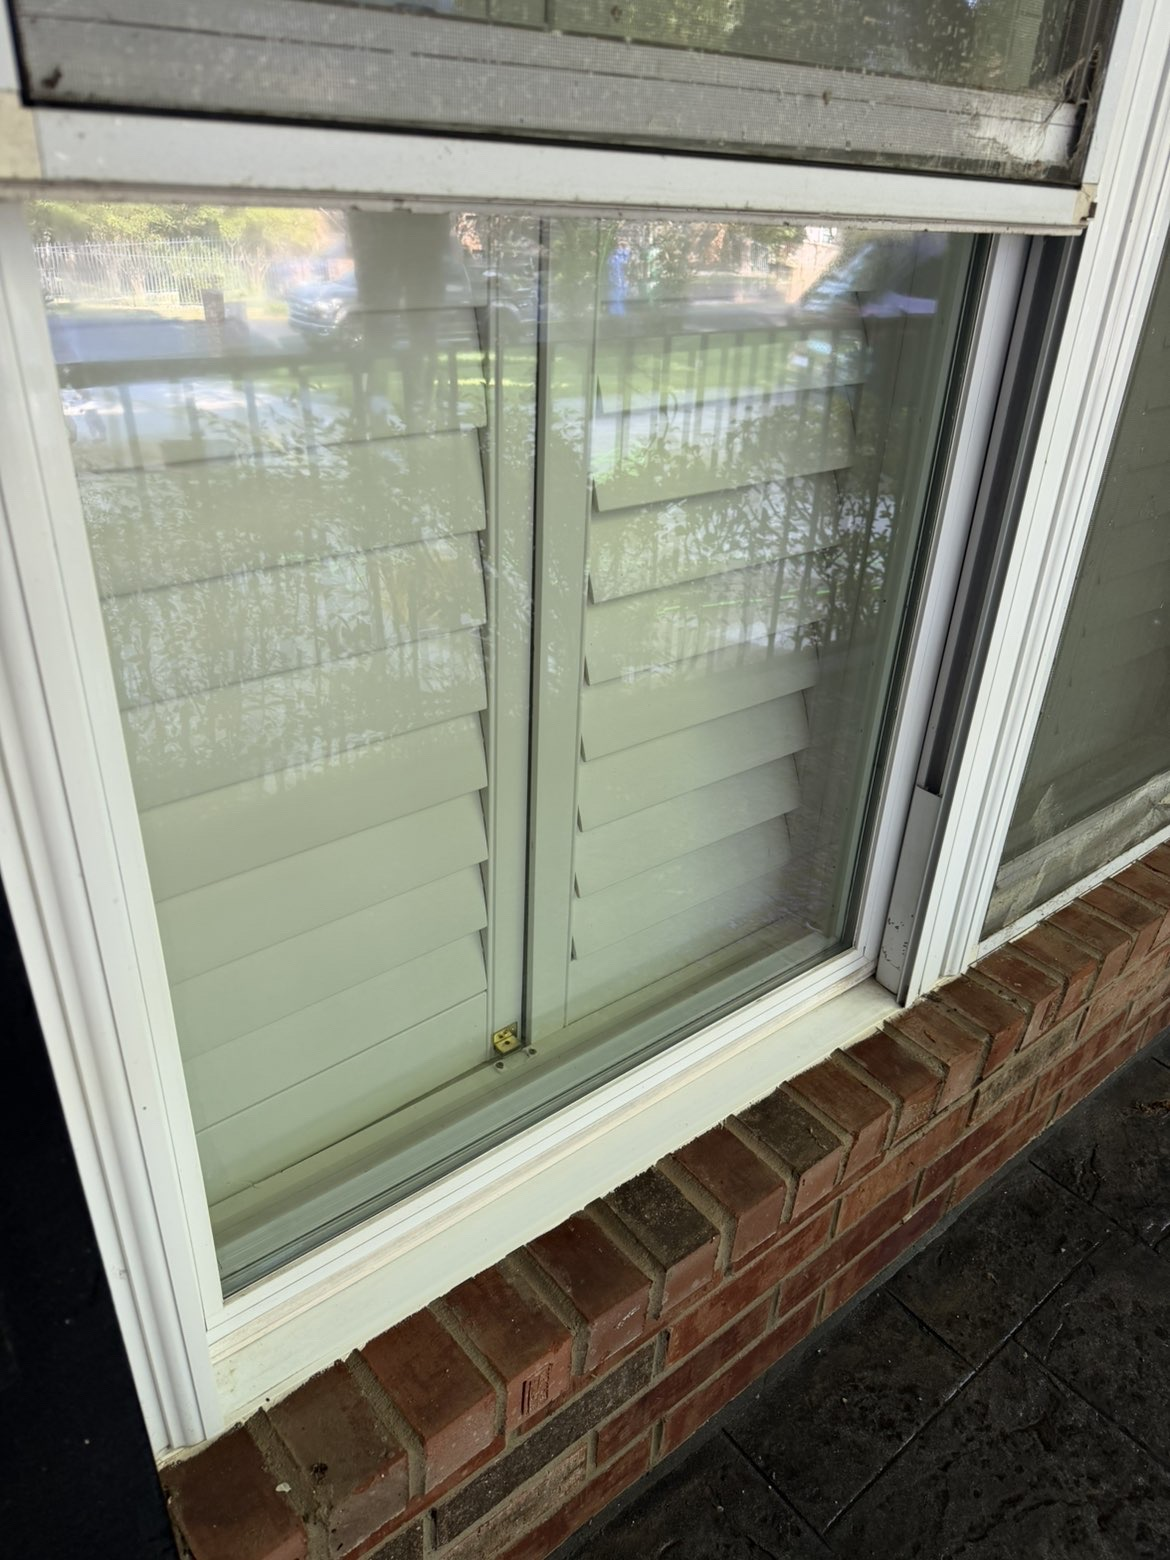
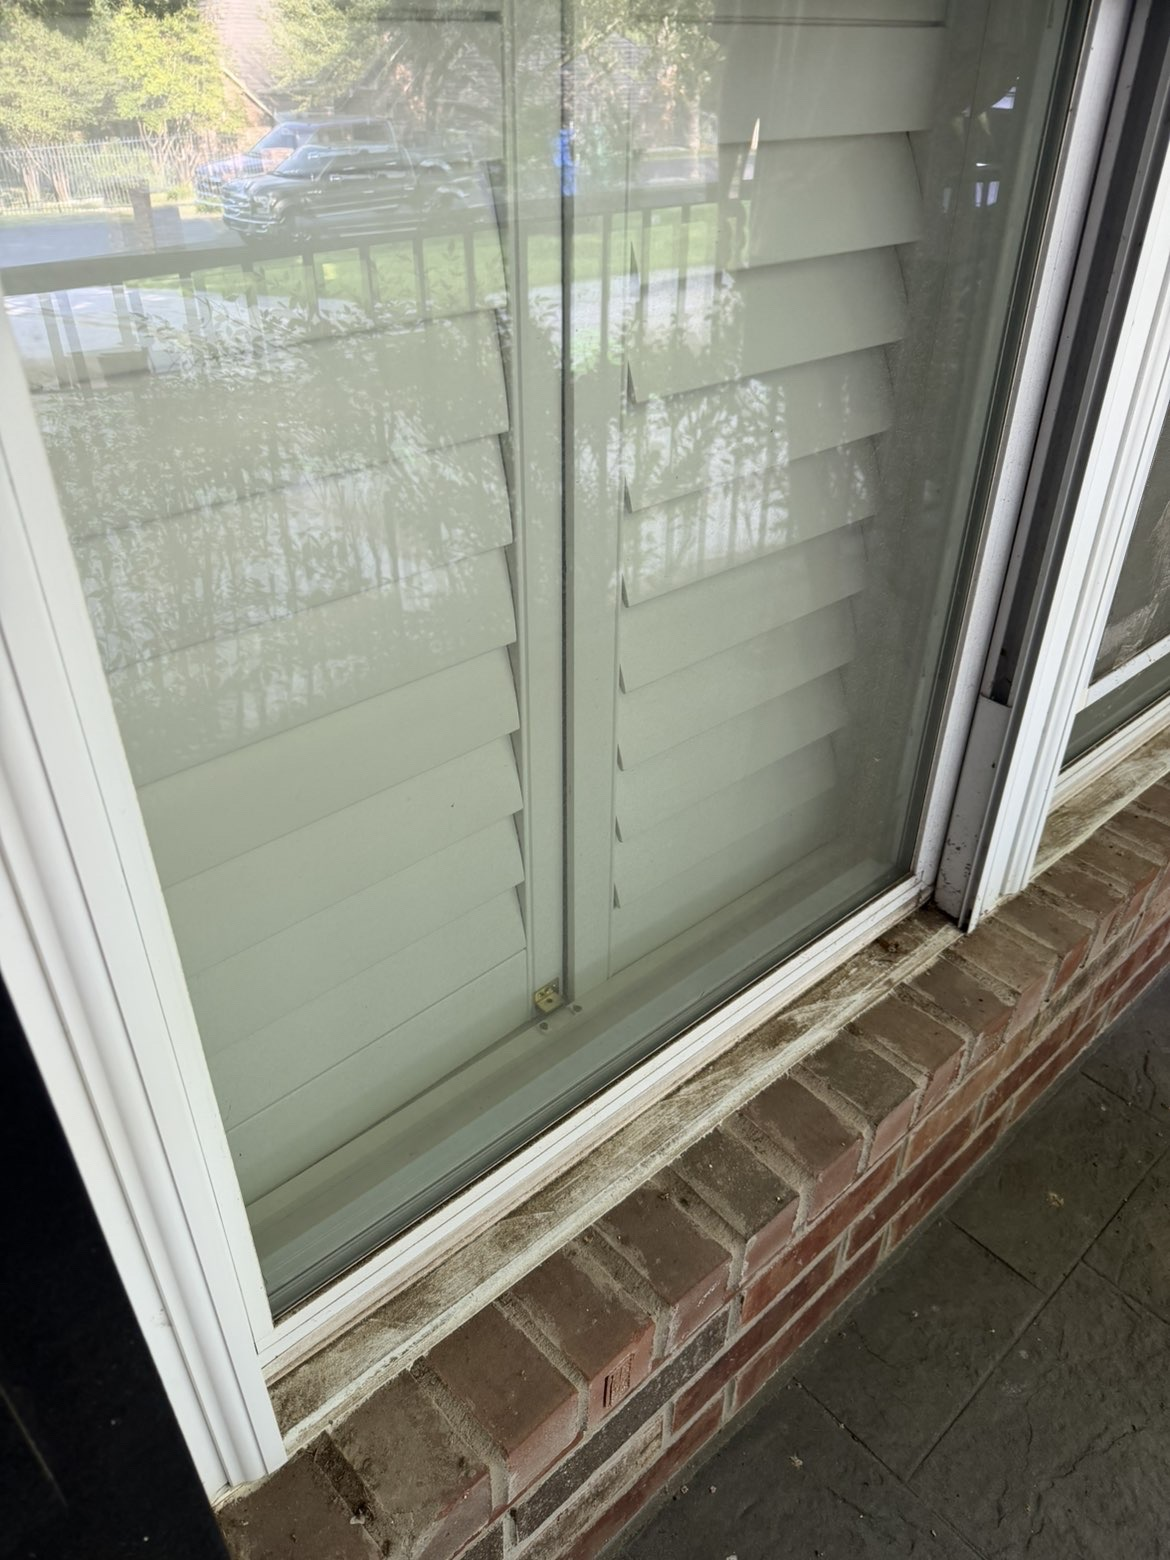
Fix before/after photo order; add real satisfaction guarantee
The Lakeway window-cleaning gallery pair had before/after backwards
(confirmed by the business owner). Swapped the actual image files so
before.jpg/after.jpg stay semantically correct, and rewrote the alt
text to describe position rather than a specific visual claim I'd
gotten wrong. Fixes both the gallery page and the homepage teaser,
which pulls from the same data/gallery.ts entry.

Also enabled trustClaims.satisfactionGuarantee now that the owner has
given a real policy ("if you're not happy with the work, we're happy
to come back and fix it free of charge") rather than leaving the flag
permanently off. Added a highlighted guarantee banner on the homepage,
gated on the same flag as everything else honesty-sensitive in this
codebase.

diff --git a/lib/config.ts b/lib/config.ts
@@ -61,17 +61,20 @@ export const siteConfig = {
   responseTime: "within 1 business day",
 
   // ---- Trust claims -------------------------------------------------------
-  // PLACEHOLDER — every flag defaults to false/null. Nothing here was
-  // confirmed by the business owner, so nothing renders on the site until
-  // it's explicitly turned on. Do not flip these to true unless verified
-  // (insurance certificate exists, licensing confirmed, etc) — showing an
-  // unverified insurance or licensing claim to homeowners is a real legal
-  // and trust risk.
+  // Flags default false/null until the business owner explicitly confirms
+  // them — nothing here was invented. Do not flip a flag to true without a
+  // real confirmation (insurance certificate exists, licensing confirmed,
+  // etc) — showing an unverified insurance or licensing claim to
+  // homeowners is a real legal and trust risk.
   trustClaims: {
     licensedInsured: false, // PLACEHOLDER — confirm before enabling
     yearsInBusiness: null as number | null, // PLACEHOLDER
-    satisfactionGuarantee: false, // PLACEHOLDER — confirm the actual policy before enabling
+    satisfactionGuarantee: true, // Confirmed by the business owner 2026-08-12
   },
+  // Real policy text, confirmed by the business owner 2026-08-12. Only
+  // shown when trustClaims.satisfactionGuarantee is true.
+  satisfactionGuaranteeText:
+    "If you're not happy with the work, we're happy to come back and fix it free of charge.",
 
   // ---- Social + review links --------------------------------------------
   // PLACEHOLDER — none provided yet. Leave any value empty to hide that

diff --git a/app/page.tsx b/app/page.tsx
@@ -120,6 +120,28 @@ export default function HomePage() {
               </div>
             ))}
           </div>
+
+          {siteConfig.trustClaims.satisfactionGuarantee ? (
+            <div className="mt-10 flex flex-col items-start gap-4 rounded-card border border-accent bg-accent-soft p-6 sm:flex-row sm:items-center sm:gap-6 sm:p-7">
+              <svg
+                className="h-9 w-9 flex-shrink-0 text-accent-strong"
+                viewBox="0 0 24 24"
+                fill="none"
+                stroke="currentColor"
+                strokeWidth="1.8"
+                aria-hidden="true"
+              >
+                <path d="M12 3l7 3v6c0 4.5-3 7.5-7 9-4-1.5-7-4.5-7-9V6l7-3z" />
+                <path d="M9 12l2 2 4-4" />
+              </svg>
+              <div>
+                <h3 className="text-[17px] font-bold">Not happy? We&rsquo;ll make it right.</h3>
+                <p className="mt-1 text-[14.5px] text-ink-soft">
+                  {siteConfig.satisfactionGuaranteeText}
+                </p>
+              </div>
+            </div>
+          ) : null}
         </Container>
       </section>
 

diff --git a/data/gallery.ts b/data/gallery.ts
@@ -22,14 +22,12 @@ export type GalleryProject = {
 export const galleryProjects: GalleryProject[] = [
   {
     slug: "lakeway-exterior-windows-01",
-    title: "From hazy to clear",
+    title: "Exterior window cleaning, before and after",
     service: "Exterior Window Cleaning",
     location: "Lakeway, TX",
     beforeSrc: "/images/gallery/lakeway-exterior-windows-01/before.jpg",
     afterSrc: "/images/gallery/lakeway-exterior-windows-01/after.jpg",
-    beforeAlt:
-      "Sliding glass window with a hazy, dust-filmed exterior pane blurring the plantation shutters and yard behind it",
-    afterAlt:
-      "Same sliding glass window after cleaning, glass fully clear with the shutters, brick sill, and yard sharply visible",
+    beforeAlt: "Sliding glass window before cleaning, viewed from outside through the pane",
+    afterAlt: "Same sliding glass window after cleaning, glass streak-free and clear",
   },
 ];
